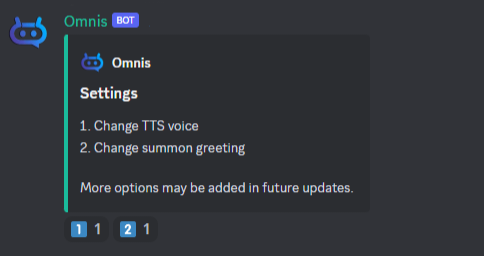
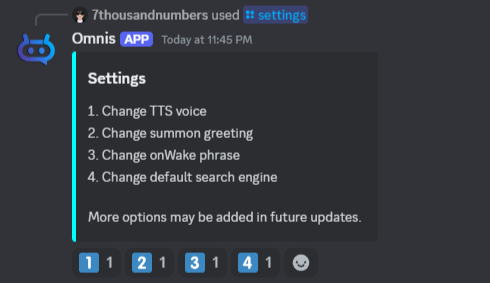
Deploying to gh-pages from @ dylwedma11748/omnis-bot@309b7dba826ba49113caadf47d129128d2d11c86 🚀

diff --git a/user-guide/settings/index.html b/user-guide/settings/index.html
@@ -510,9 +510,9 @@
     <ul class="md-nav__list" data-md-component="toc" data-md-scrollfix>
       
         <li class="md-nav__item">
-  <a href="#change-tts-voice" class="md-nav__link">
+  <a href="#change-text-to-speech-voice" class="md-nav__link">
     <span class="md-ellipsis">
-      Change TTS voice
+      Change Text-to-Speech voice
     </span>
   </a>
   
@@ -522,6 +522,24 @@
   <a href="#change-summon-greeting" class="md-nav__link">
     <span class="md-ellipsis">
       Change summon greeting
+    </span>
+  </a>
+  
+</li>
+      
+        <li class="md-nav__item">
+  <a href="#change-onwake-phrase" class="md-nav__link">
+    <span class="md-ellipsis">
+      Change onWake phrase
+    </span>
+  </a>
+  
+</li>
+      
+        <li class="md-nav__item">
+  <a href="#change-default-search-engine" class="md-nav__link">
+    <span class="md-ellipsis">
+      Change default search engine
     </span>
   </a>
   
@@ -579,13 +597,18 @@
 
 
 <h1 id="settings"><strong>Settings</strong></h1>
-<div class="admonition tip">
-<p>Any settings you change will be saved for you and will carry across servers.</p>
-</div>
-<h2 id="change-tts-voice"><strong>Change TTS voice</strong></h2>
 <div class="admonition info">
+<p class="admonition-title">Premium</p>
 <p><i> This requires a premium membership. </i></p>
 </div>
+<p>Using the /settings slash command, you can adjust various configuration options available in Omnis.
+These settings allow you to personalize your interaction with the bot, ensuring it aligns with your preferences.
+By tailoring these options, you can create a customized experience that best suits your needs.</p>
+<div class="admonition tip">
+<p class="admonition-title">User settings</p>
+<p>Any settings you change will be saved for you and will carry across servers.</p>
+</div>
+<h3 id="change-text-to-speech-voice"><strong>Change Text-to-Speech voice</strong></h3>
 <div class="admonition tip">
 <p class="admonition-title">Voice channel</p>
 <p>Omnis needs to be in a voice channel in order to change the voice.</p>
@@ -607,27 +630,59 @@
 <div class="admonition tip">
 <p>In addition to supporting all voice types, Omnis supports all of Google's available Text-to-Speech voices. That's over 700 voices to choose from!</p>
 </div>
-<div class="admonition tip">
-<p>Use the /settings command and select "Change TTS voice", then select a voice type, a language, and a voice.</p>
+<ol>
+<li>Use the /settings command:
+<br>
+<img alt="png" src="../../images/settings/settings-menu.png" /></li>
+<li>Select "Change TTS Voice"</li>
+<li>Select a voice type:
+<br>
+<img alt="png" src="../../images/settings/settings-tts-voice-type.png" /></li>
+<li>Select a language:
+<br>
+<img alt="png" src="../../images/settings/settings-tts-language.png" /></li>
+<li>Select a voice:
+<br>
+<img alt="png" src="../../images/settings/settings-tts-voice-name.png" /></li>
+</ol>
+<h3 id="change-summon-greeting"><strong>Change summon greeting</strong></h3>
+<div class="admonition question">
+<p class="admonition-title">What is this?</p>
+<p>Your summon greeting is what Omnis will say when you summon it to your voice channel using the /summon command.</p>
 </div>
-<p><img alt="png" src="../../images/settings/settings-menu.png" />
+<ol>
+<li>Use the /settings command:
 <br>
-<br>
-<img alt="png" src="../../images/settings/settings-tts-voice-type.png" />
-<br>
-<br>
-<img alt="png" src="../../images/settings/settings-tts-language.png" />
-<br>
-<br>
-<img alt="png" src="../../images/settings/settings-tts-voice-name.png" /></p>
-<h2 id="change-summon-greeting"><strong>Change summon greeting</strong></h2>
-<div class="admonition info">
-<p><i> This requires a premium membership. </i></p>
+<img alt="png" src="../../images/settings/settings-menu.png" /></li>
+<li>Select "Change summon greeting"</li>
+<li>Omnis will send you a direct message informing you that the next message you send in a direct message channel with Omnis will be used as your new summon greeting.</li>
+</ol>
+<h3 id="change-onwake-phrase"><strong>Change onWake phrase</strong></h3>
+<div class="admonition question">
+<p class="admonition-title">What is this?</p>
+<p>Your onWake phrase is what Omnis will say when you wake it up in your voice channel by saying it's name or using the /wakeup command.</p>
 </div>
-<div class="admonition tip">
-<p>Use the /settings command and select "Change summon greeting". The next message you send in a direct message will be used as your summon greeting.</p>
+<ol>
+<li>Use the /settings command:
+<br>
+<img alt="png" src="../../images/settings/settings-menu.png" /></li>
+<li>Select "Change onWake phrase"</li>
+<li>Omnis will send you a direct message informing you that the next message you send in a direct message channel with Omnis will be used as your new onWake phrase.</li>
+</ol>
+<h3 id="change-default-search-engine"><strong>Change default search engine</strong></h3>
+<div class="admonition question">
+<p class="admonition-title">What is this?</p>
+<p>This will determine what search engine to use by default for when you search for a track.</p>
 </div>
-<p><img alt="png" src="../../images/settings/settings-menu.png" /></p>
+<ol>
+<li>Use the /settings command:
+<br>
+<img alt="png" src="../../images/settings/settings-menu.png" /></li>
+<li>Select "Change default search engine"</li>
+<li>Select a search engine.
+<br>
+<img alt="png" src="../../images/settings/settings-search-engine.png" /></li>
+</ol>
 
 
 

diff --git a/terms/index.html b/terms/index.html
@@ -800,7 +800,7 @@ Please refer to <a href="https://openai.com/policies/privacy-policy/">OpenAI's p
 <p>Omnis utilizes Google's Text-to-Speech (TTS) technology to provide its TTS functionalities and Google's Speech-to-Text (STT) technology for it's voice command features.
 Importantly, by default, Google does not log customer audio data or transcripts as seen in their <a href="https://cloud.google.com/speech-to-text/docs/data-logging">Data logging doc</a>, and Omnis also adheres to this practice, ensuring that your audio interactions remain private and secure.
 Omnis is not set to opt-in to Google's data logging program, and your voice data is not stored or logged by either Google or Omnis, allowing you to use these features with confidence in the protection of your privacy.</p>
-<p>For users with a premium membership, user settings are stored and linked to a Discord User ID (also known as a Snowflake), which is an 18-digit number unique to each user.
+<p>For users with a premium membership, user settings are stored and linked to a Discord User ID (also known as a Snowflake), which is a string of numbers unique to each user.
 This number is solely used for storing user settings and is not utilized for identifying, profiling, or monitoring users in any way.
 The developer is committed to ensuring the confidentiality and security of your information.
 Premium users also gain access to Porcupine Wake Word Detection from Picovoice to wake Omnis up in a voice channel by saying it's name.
